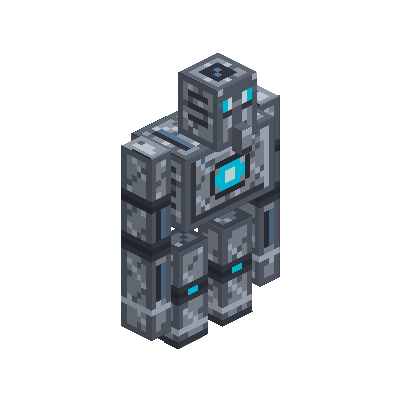
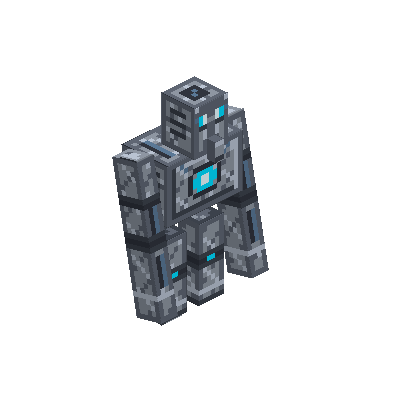
feat(gallery): enhance sonic turret combat GIF, add automaton and golem animations (v1.19.68)

Changed region(s): [[0.27, 0.12, 0.72, 0.87]]

diff --git a/src/main/java/com/fhfelipefh/sandstorm/content/world/dungeon/MilitaryLabCatalog.java b/src/main/java/com/fhfelipefh/sandstorm/content/world/dungeon/MilitaryLabCatalog.java
@@ -114,7 +114,8 @@ public class MilitaryLabCatalog {
                     for (int fy = 1; fy <= 3; fy++) {
                         BlockPos foundationPos = worldFloor.below(fy);
                         if (level.getBlockState(foundationPos).isAir()) {
-                            level.setBlock(foundationPos, SandStormBlocks.MILITARY_ARMOR_PLATE.defaultBlockState(), 2);
+                            level.setBlock(foundationPos, SandStormBlocks.MILITARY_ARMOR_PLATE.defaultBlockState()
+                                    .setValue(RustingBlock.RUST, RustingBlock.selectRuinRust(level.getRandom())), 2);
                         }
                     }
 
@@ -131,7 +132,8 @@ public class MilitaryLabCatalog {
                         ceilingState = SandStormBlocks.MILITARY_ARMOR_PLATE.defaultBlockState();
                     }
                     setLocalBlock(level, origin, rotation, lx, 5, lz, size, ceilingState);
-                    setLocalBlock(level, origin, rotation, lx, 6, lz, size, SandStormBlocks.MILITARY_ARMOR_PLATE.defaultBlockState());
+                    setLocalBlock(level, origin, rotation, lx, 6, lz, size, SandStormBlocks.MILITARY_ARMOR_PLATE.defaultBlockState()
+                            .setValue(RustingBlock.RUST, RustingBlock.selectRuinRust(level.getRandom())));
 
                     for (int ly = 1; ly <= 4; ly++) {
                         boolean isNorthWall = (lz == 0);

diff --git a/src/test/java/com/fhfelipefh/sandstorm/architecture/RustingBlockArchitectureTest.java b/src/test/java/com/fhfelipefh/sandstorm/architecture/RustingBlockArchitectureTest.java
@@ -40,4 +40,14 @@ class RustingBlockArchitectureTest {
             assertTrue(hidden.asList().stream().anyMatch(value -> value.getAsString().equals("sandstorm:" + id)), id);
         }
     }
+
+    @Test
+    void militaryLabIncludesRoofAndFoundationInRustDistribution() throws Exception {
+        Path dungeon = Path.of("src/main/java/com/fhfelipefh/sandstorm/content/world/dungeon");
+        String clutter = Files.readString(dungeon.resolve("MilitaryLabClutterPass.java"));
+        String catalog = Files.readString(dungeon.resolve("MilitaryLabCatalog.java"));
+        assertTrue(clutter.contains("y <= 6"), "The rust pass must cover the roof layer");
+        assertTrue(catalog.matches("(?s).*level\\.setBlock\\(foundationPos,\\s*SandStormBlocks\\.MILITARY_ARMOR_PLATE\\.defaultBlockState\\(\\)\\s*\\.setValue\\(RustingBlock\\.RUST,\\s*RustingBlock\\.selectRuinRust\\(level\\.getRandom\\(\\)\\)\\).*"),
+                "The foundation must use the same weighted rust distribution");
+    }
 }

diff --git a/src/test/java/com/fhfelipefh/sandstorm/architecture/DesertMobEcosystemArchitectureTest.java b/src/test/java/com/fhfelipefh/sandstorm/architecture/DesertMobEcosystemArchitectureTest.java
@@ -60,7 +60,7 @@ class DesertMobEcosystemArchitectureTest {
     void versionMustMatchCurrentRelease() throws IOException {
         Path gradleProps = Path.of("gradle.properties");
         String content = Files.readString(gradleProps);
-        assertTrue(content.contains("version=1.19.67"), "gradle.properties must be 1.19.67");
+        assertTrue(content.contains("version=1.19.68"), "gradle.properties must be 1.19.68");
     }
 
     @Test

diff --git a/src/test/java/com/fhfelipefh/sandstorm/architecture/WardenAndroidAndReactorArchitectureTest.java b/src/test/java/com/fhfelipefh/sandstorm/architecture/WardenAndroidAndReactorArchitectureTest.java
@@ -86,7 +86,7 @@ public class WardenAndroidAndReactorArchitectureTest {
     @Test
     public void testVersionBumped() throws IOException {
         String content = Files.readString(Path.of("gradle.properties"));
-        assertTrue(content.contains("version=1.19.67"), "Version must be bumped to 1.19.67");
+        assertTrue(content.contains("version=1.19.68"), "Version must be bumped to 1.19.68");
     }
 }
 

diff --git a/src/main/java/com/fhfelipefh/sandstorm/content/world/dungeon/MilitaryLabClutterPass.java b/src/main/java/com/fhfelipefh/sandstorm/content/world/dungeon/MilitaryLabClutterPass.java
@@ -17,7 +17,7 @@ public class MilitaryLabClutterPass implements DungeonClutterPass {
 
         for (int x = 0; x < totalX; x++) {
             for (int z = 0; z < totalZ; z++) {
-                for (int y = 0; y <= 5; y++) {
+                for (int y = 0; y <= 6; y++) {
                     BlockPos pos = origin.offset(x, y, z);
                     BlockState state = level.getBlockState(pos);
 

diff --git a/README.md b/README.md
@@ -87,7 +87,7 @@ As galerias abaixo apresentam prévias geradas a partir dos modelos e texturas d
       <sub>Guardião Autônomo & Rastreador</sub>
     </td>
     <td align="center" width="25%" valign="top">
-      <img src="docs/images/entities/cybernetic_golem.png" width="140" alt="Golem Cibernético"><br>
+      <img src="docs/images/entities/cybernetic_golem.gif" width="140" alt="Golem Cibernético"><br>
       <b>Golem Cibernético</b><br>
       <sub>Defesa Pesada de Instalações</sub>
     </td>
@@ -109,7 +109,7 @@ As galerias abaixo apresentam prévias geradas a partir dos modelos e texturas d
       <sub>Unidade Hostil Corrompida</sub>
     </td>
     <td align="center" width="25%" valign="top">
-      <img src="docs/images/entities/derelict_automaton.png" width="140" alt="Autômato Abandonado"><br>
+      <img src="docs/images/entities/derelict_automaton.gif" width="140" alt="Autômato Abandonado"><br>
       <b>Autômato Abandonado</b><br>
       <sub>Unidade Decrépita Reciclável</sub>
     </td>
@@ -369,7 +369,7 @@ A placa militar no estágio final também pode apresentar uma aparência fratura
 ## ⚔ Arsenal Tático, Armas & Equipamentos
 
 <details>
-<summary><b>Clique para expandir o arsenal de armas e equipamentos (16 modelos)</b></summary>
+<summary><b>Clique para expandir o arsenal de armas e equipamentos (15 modelos)</b></summary>
 <br>
 
 <table width="100%">
@@ -455,11 +455,7 @@ A placa militar no estágio final também pode apresentar uma aparência fratura
       <b>Uplink Cibernético</b><br>
       <sub>Comando Remoto de Drones & Ciborgues</sub>
     </td>
-    <td align="center" width="25%" valign="top">
-      <img src="docs/images/weapons/sandboard.png" width="140" alt="Prancha de Areia (Sandboard)"><br>
-      <b>Prancha de Areia (Sandboard)</b><br>
-      <sub>Locomoção Tática de Alta Velocidade</sub>
-    </td>
+    <td width="25%"></td>
   </tr>
 </table>
 
